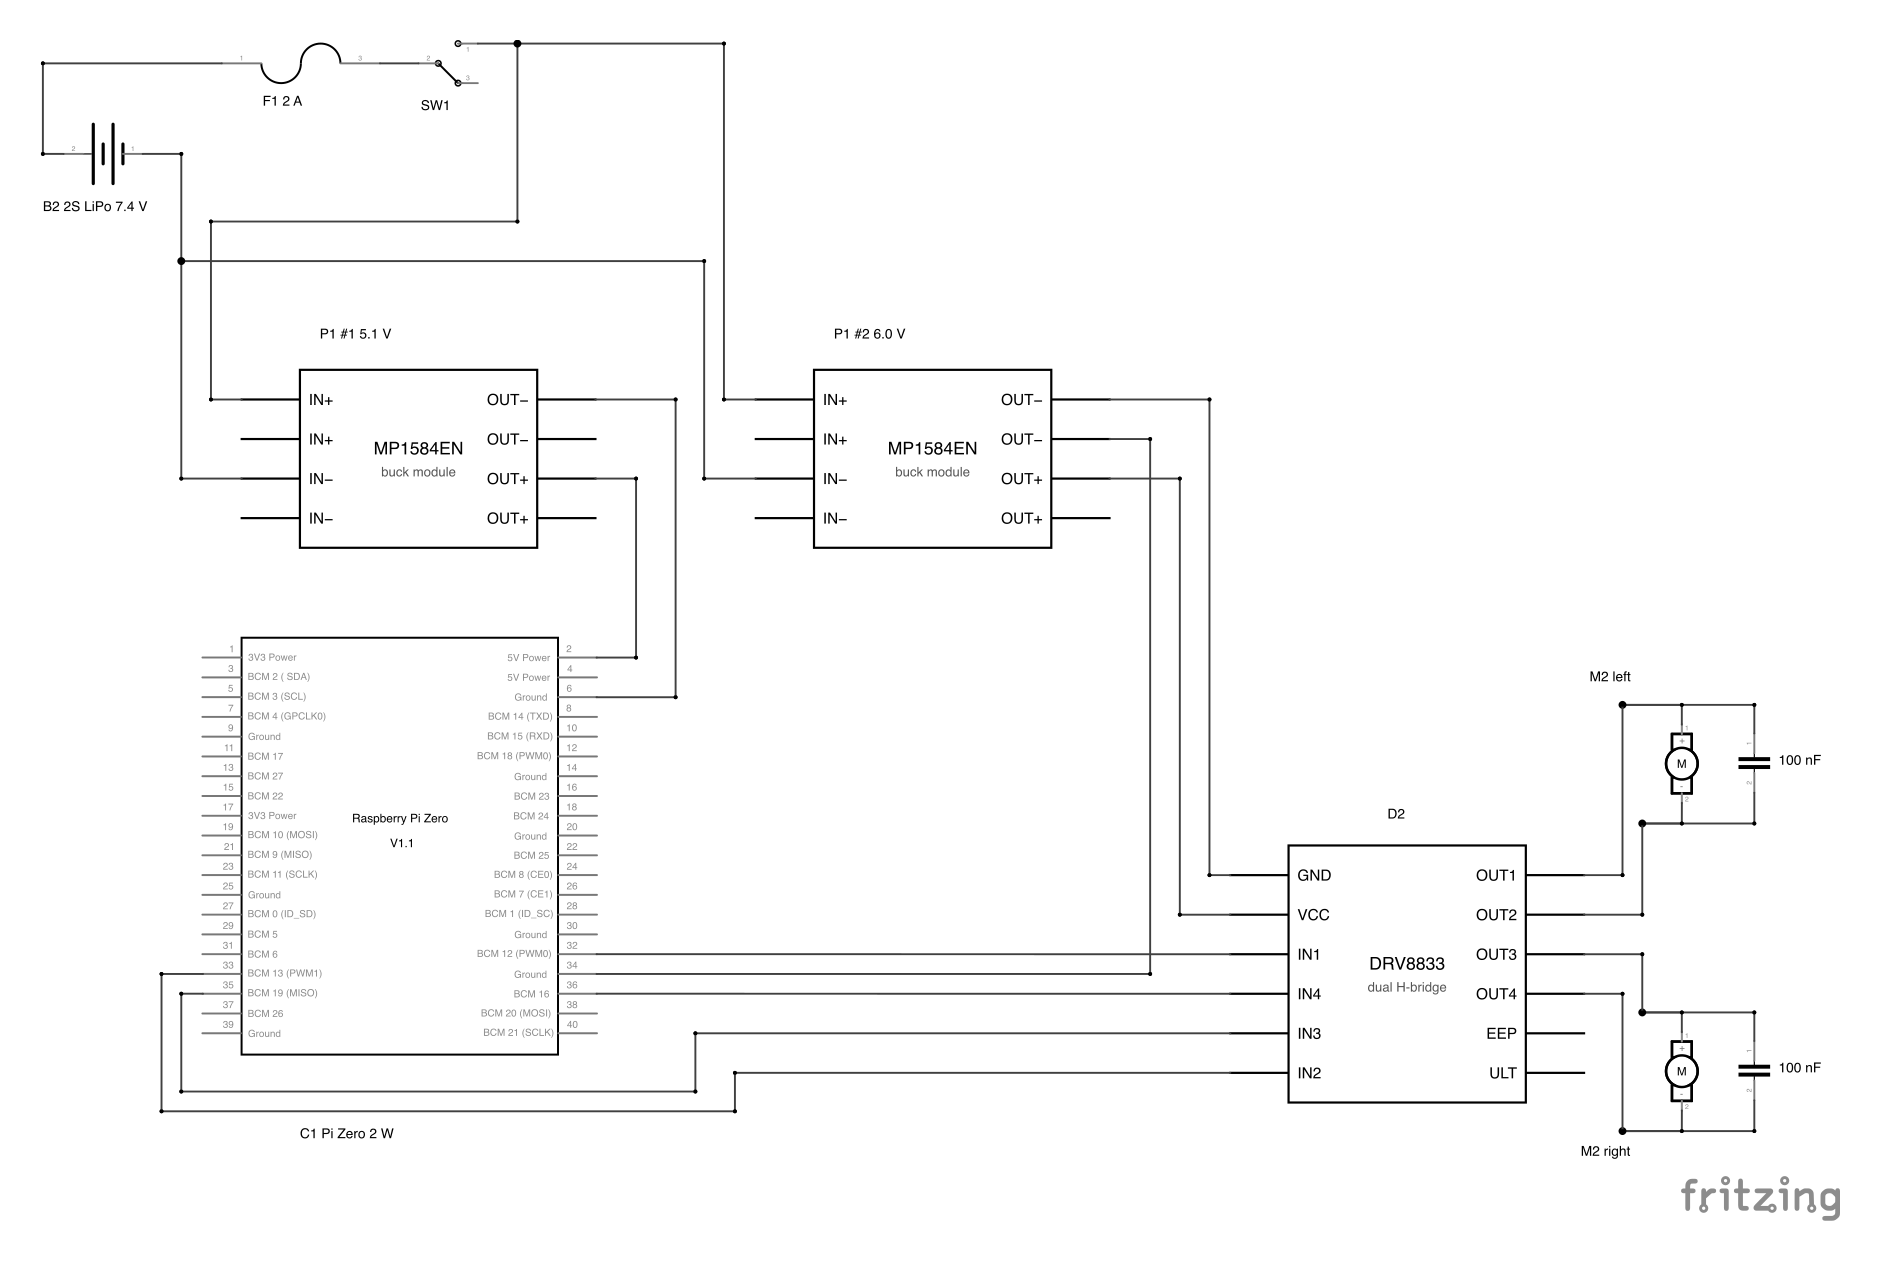
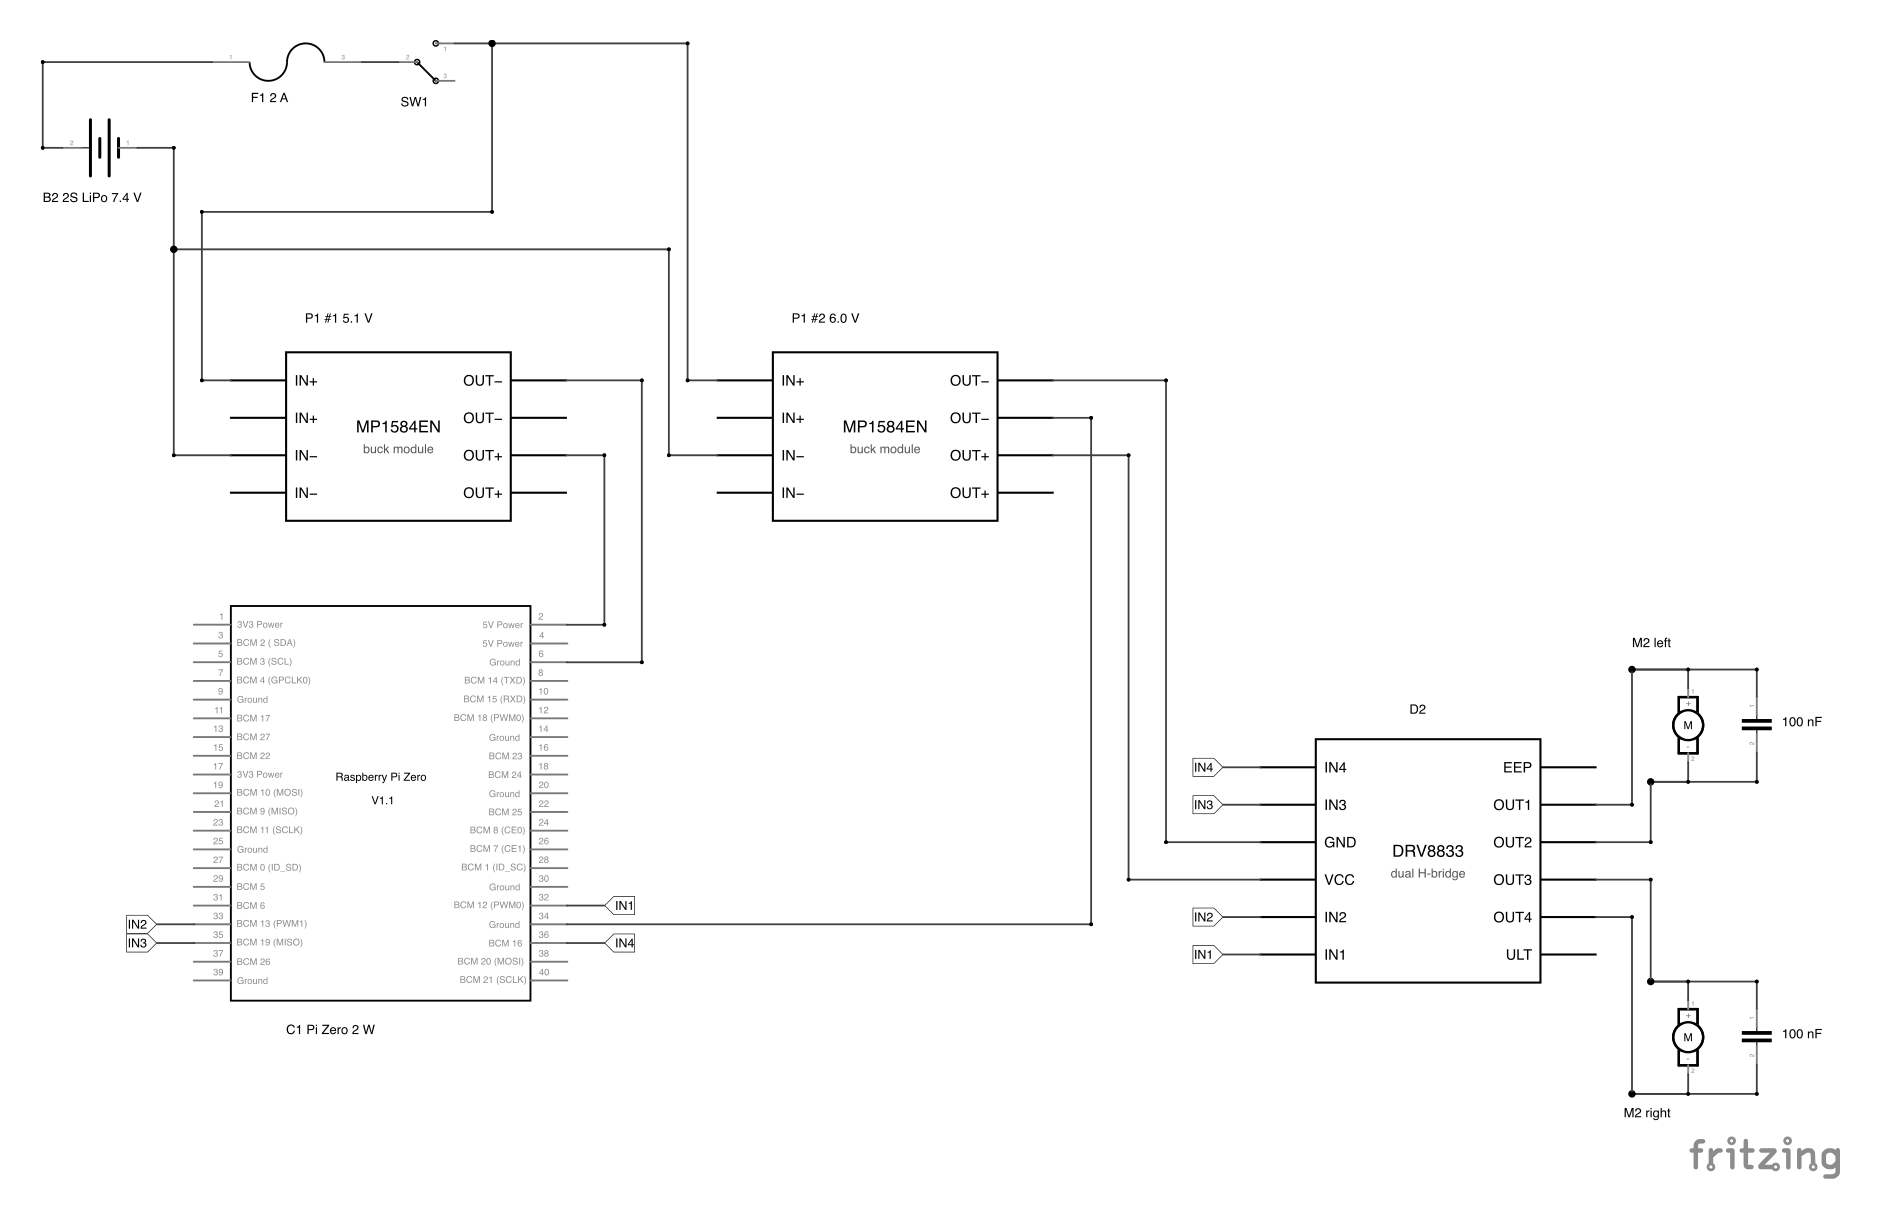
robot_car: schematic DRV8833 pins in the board's order
The DRV8833 symbol had GND and VCC at the top of its input row, to suit
the wiring. It now matches the board's silkscreen: IN4, IN3, GND, VCC,
IN2, IN1 down one row and EEP, OUT1-OUT4, ULT down the other. With the
supply mid-row, IN1-IN4 are drawn as net labels, so no signal wire
crosses the supply. The netlist is unchanged (checked against the
previous sketch).

diff --git a/cad/robot_car/WIRING.md b/cad/robot_car/WIRING.md
@@ -67,8 +67,10 @@ or with the fritzing-format skill, then re-render the PNG. The Pi symbol is
 Fritzing's Pi Zero V1.1; the Zero 2 W has the same 40-pin header. The MP1584
 and DRV8833 symbols are hand-made and bundled in the sketch. Each MP1584 net
 has two header pins, and the part ties IN− and OUT− together, as the board
-does. The DRV8833's pin order follows this wiring, not the board; the board's
-own order is on [parts/d2.html](../../parts/d2.html).
+does. The DRV8833 symbol keeps the board's pin order (see
+[parts/d2.html](../../parts/d2.html)). `GND` and `VCC` sit mid-row between the
+inputs, so `IN1`–`IN4` are drawn as net labels rather than wires that would
+cross the supply.
 
 ### Pi Zero 2 W → D2 (4 signals + ground)
 

diff --git a/esp32-c5/fritzing-parts/README.md b/esp32-c5/fritzing-parts/README.md
@@ -18,8 +18,8 @@ Fritzing has neither, so `cad/robot_car/robot_car.fzz` carries hand-made ones
 (moduleIds `robot3d_mp1584_ModuleID` and `robot3d_drv8833_ModuleID`), with a
 **schematic view only**. The MP1584 has two pins per net, because the car's boards
 carry a 2-pin header on every pad pair. Internal buses tie each pair together and
-tie IN− to OUT−, as the board's copper does. The DRV8833's pin order follows the
-car's wiring, not the board. To reuse either part, `fzz.read_fzz()` that sketch
+tie IN− to OUT−, as the board's copper does. The DRV8833 keeps the board's pin
+order. To reuse either part, `fzz.read_fzz()` that sketch
 first.
 
 ## Seeed Studio XIAO ESP32C5
